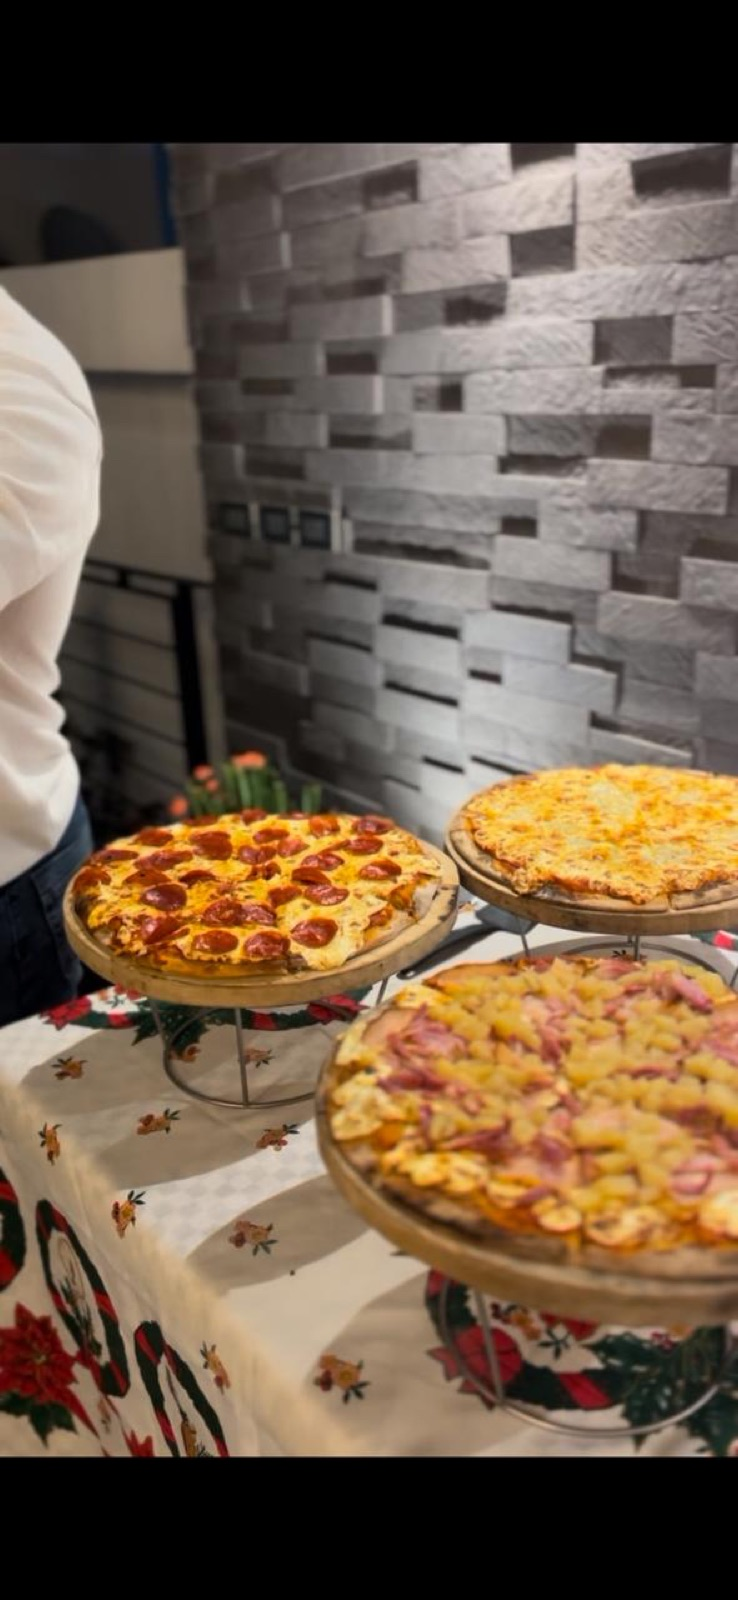
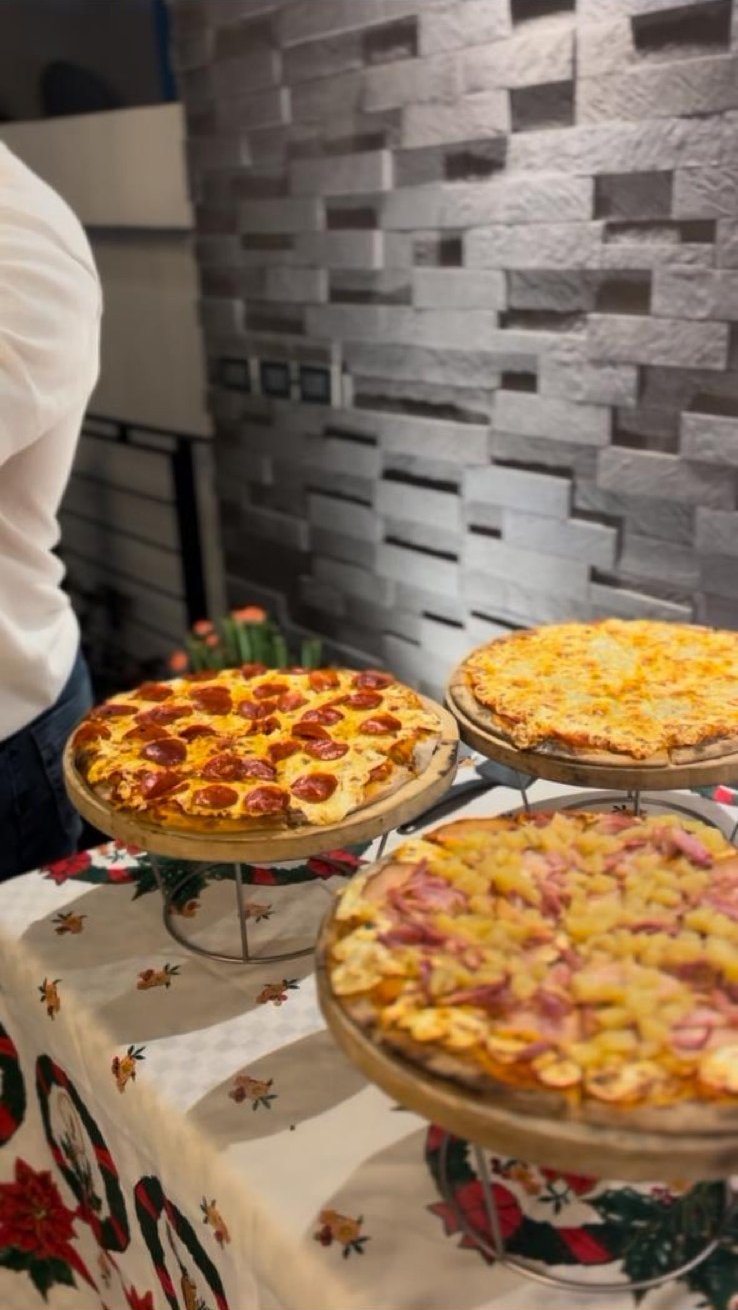
Hero heritage line, gallery masonry rebuild, and photo cleanup
- Hero: move "Más de 33 años…" heritage line up under the title
- Gallery: rebuild as CSS-columns masonry (no gaps at any width, no cropping)
- Gallery photos: curate set (remove/replace some), crop black bars off 15 & 33

diff --git a/src/app/galeria/page.tsx b/src/app/galeria/page.tsx
@@ -32,22 +32,6 @@ function getGalleryImages() {
     });
 }
 
-// Repeating pattern of tile sizes for the collage. col-span only kicks in at
-// sm+ (mobile stays 2 columns with the occasional tall accent).
-const SPANS = [
-  "sm:col-span-2 sm:row-span-2", // big feature
-  "",
-  "row-span-2", // tall
-  "",
-  "sm:col-span-2", // wide
-  "",
-  "row-span-2", // tall
-  "",
-  "sm:col-span-2 sm:row-span-2", // big feature
-  "",
-  "",
-];
-
 export default function GaleriaPage() {
   const images = getGalleryImages();
 
@@ -70,19 +54,19 @@ export default function GaleriaPage() {
             </p>
           </div>
         ) : (
-          <div className="grid auto-rows-[150px] grid-flow-row-dense grid-cols-2 gap-3 sm:auto-rows-[190px] sm:grid-cols-3 lg:grid-cols-4">
-            {images.map((img, i) => (
+          // Masonry (CSS columns): photos pack into columns at their natural
+          // aspect ratio — no gaps at any screen size, and nothing is cropped.
+          <div className="columns-2 gap-3 sm:columns-3 lg:columns-4">
+            {images.map((img) => (
               <div
                 key={img.src}
-                className={`group overflow-hidden rounded-xl border border-gold/20 bg-cream-deep ${
-                  SPANS[i % SPANS.length]
-                }`}
+                className="group mb-3 break-inside-avoid overflow-hidden rounded-xl border border-gold/20 bg-cream-deep"
               >
                 {/* eslint-disable-next-line @next/next/no-img-element */}
                 <img
                   src={img.src}
                   alt={img.alt}
-                  className="h-full w-full object-cover transition-transform duration-300 group-hover:scale-105"
+                  className="w-full transition-transform duration-300 group-hover:scale-105"
                 />
               </div>
             ))}

diff --git a/src/app/page.tsx b/src/app/page.tsx
@@ -55,7 +55,10 @@ export default function Home() {
                 </>
               )}
             </h1>
-            <p className="mt-6 max-w-xl text-lg text-cream/80">{hero.subtitle}</p>
+            <p className="mt-4 text-sm italic text-gold-light sm:text-base">
+              {site.heritage}
+            </p>
+            <p className="mt-5 max-w-xl text-lg text-cream/80">{hero.subtitle}</p>
             <div className="mt-9 flex flex-wrap gap-4">
               <a
                 href={whatsappHref}
@@ -96,7 +99,6 @@ export default function Home() {
                 {hero.secondaryCta.label}
               </Link>
             </div>
-            <p className="mt-8 text-sm italic text-gold-light">{site.heritage}</p>
           </div>
         </Container>
       </section>